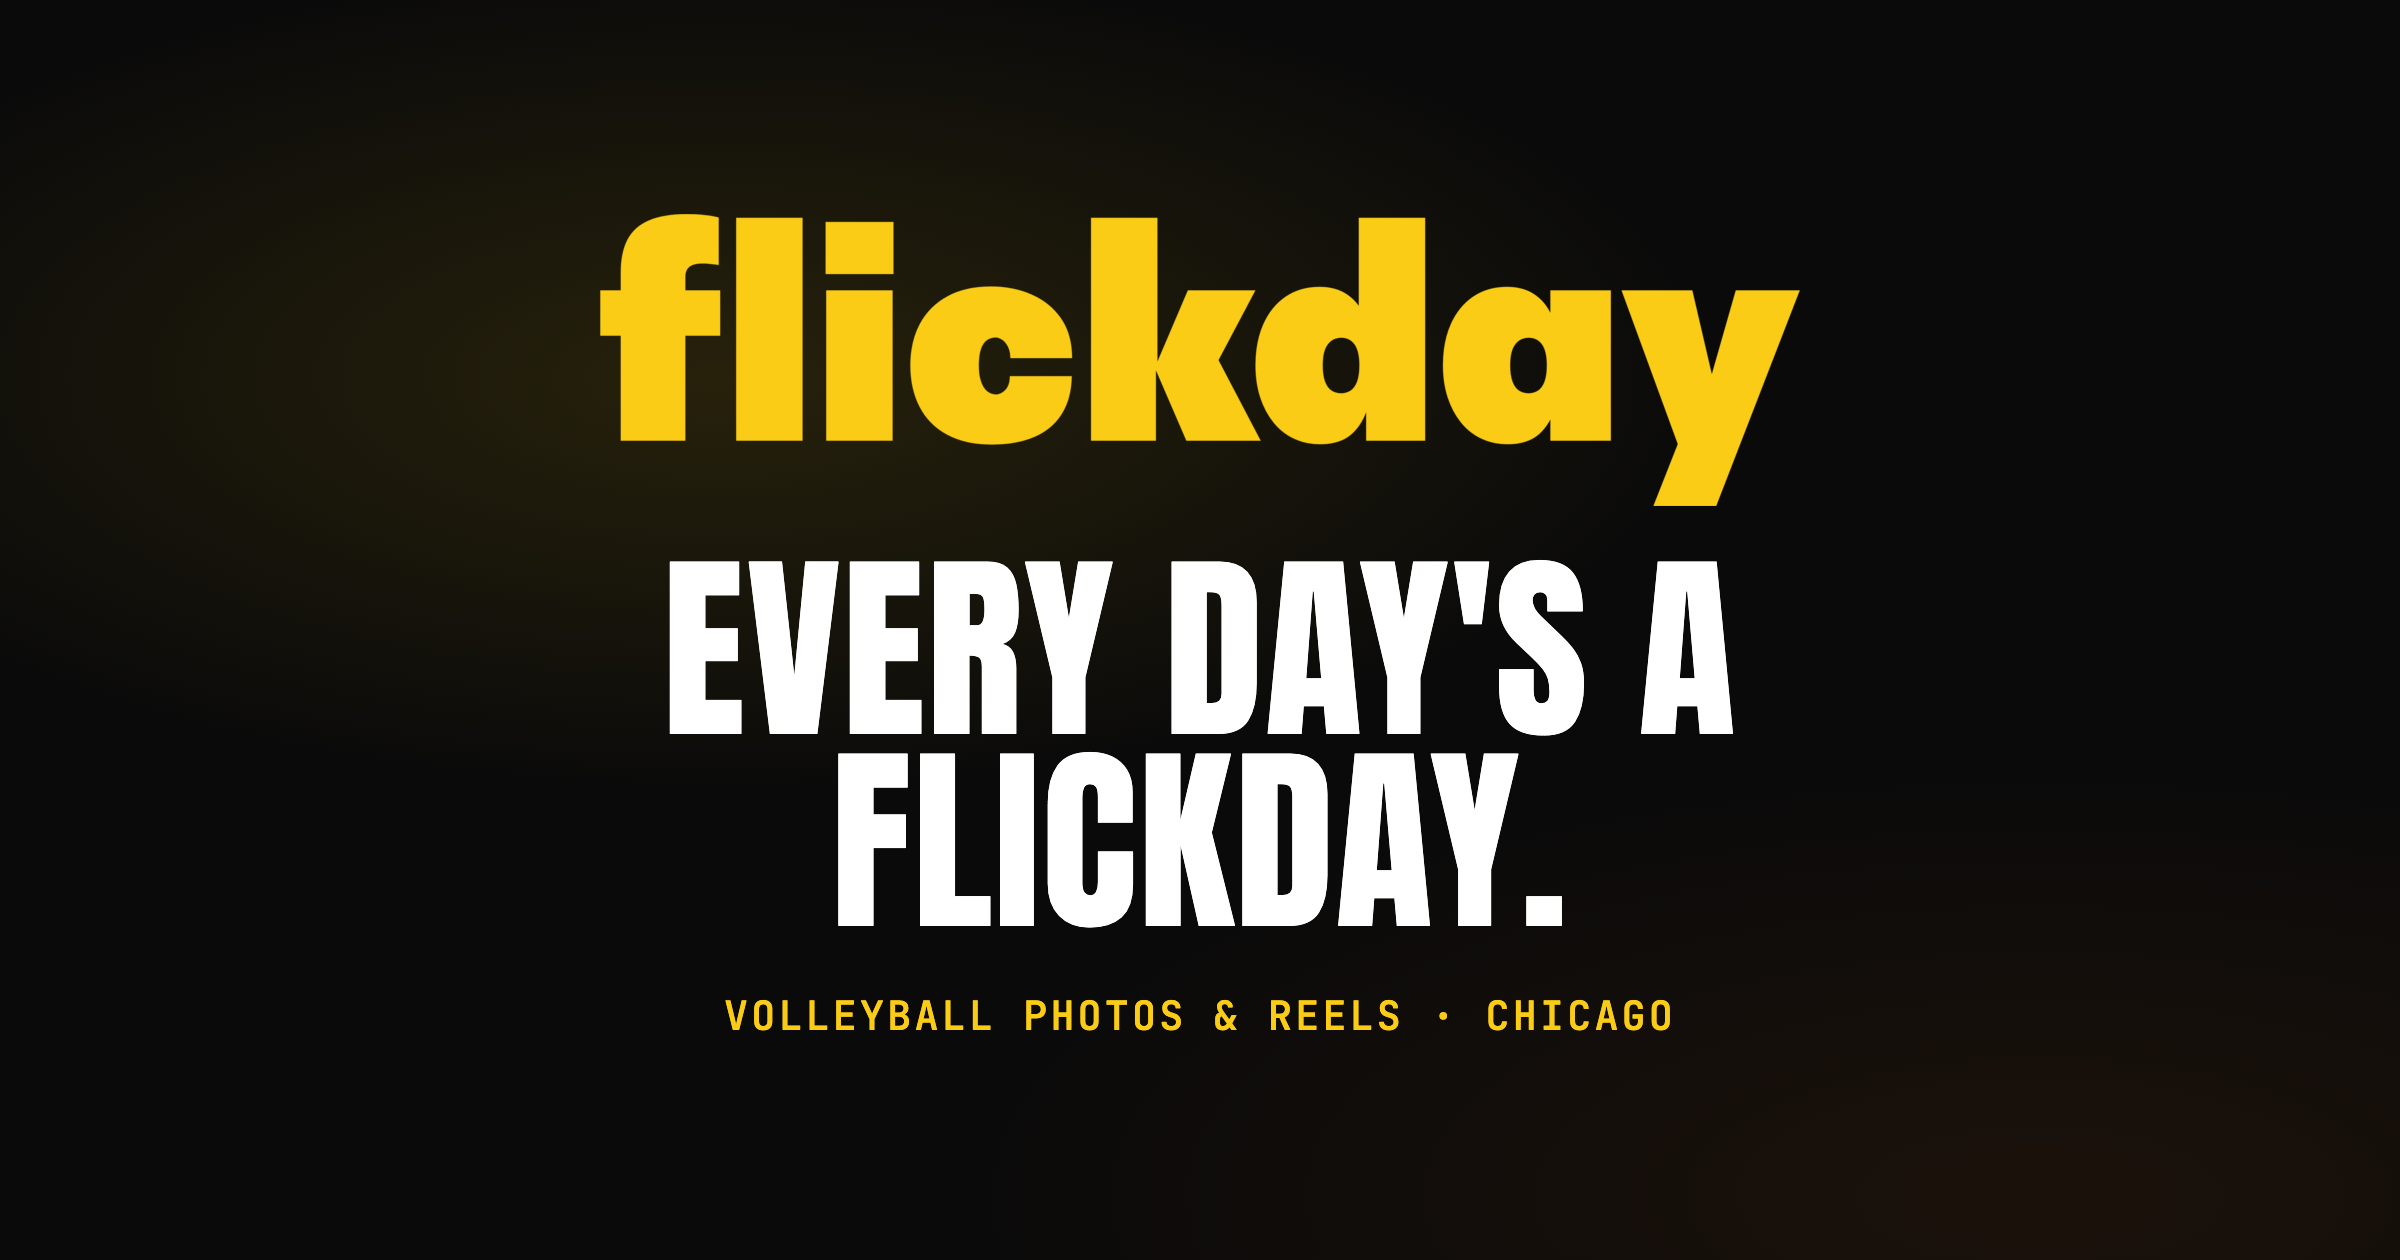
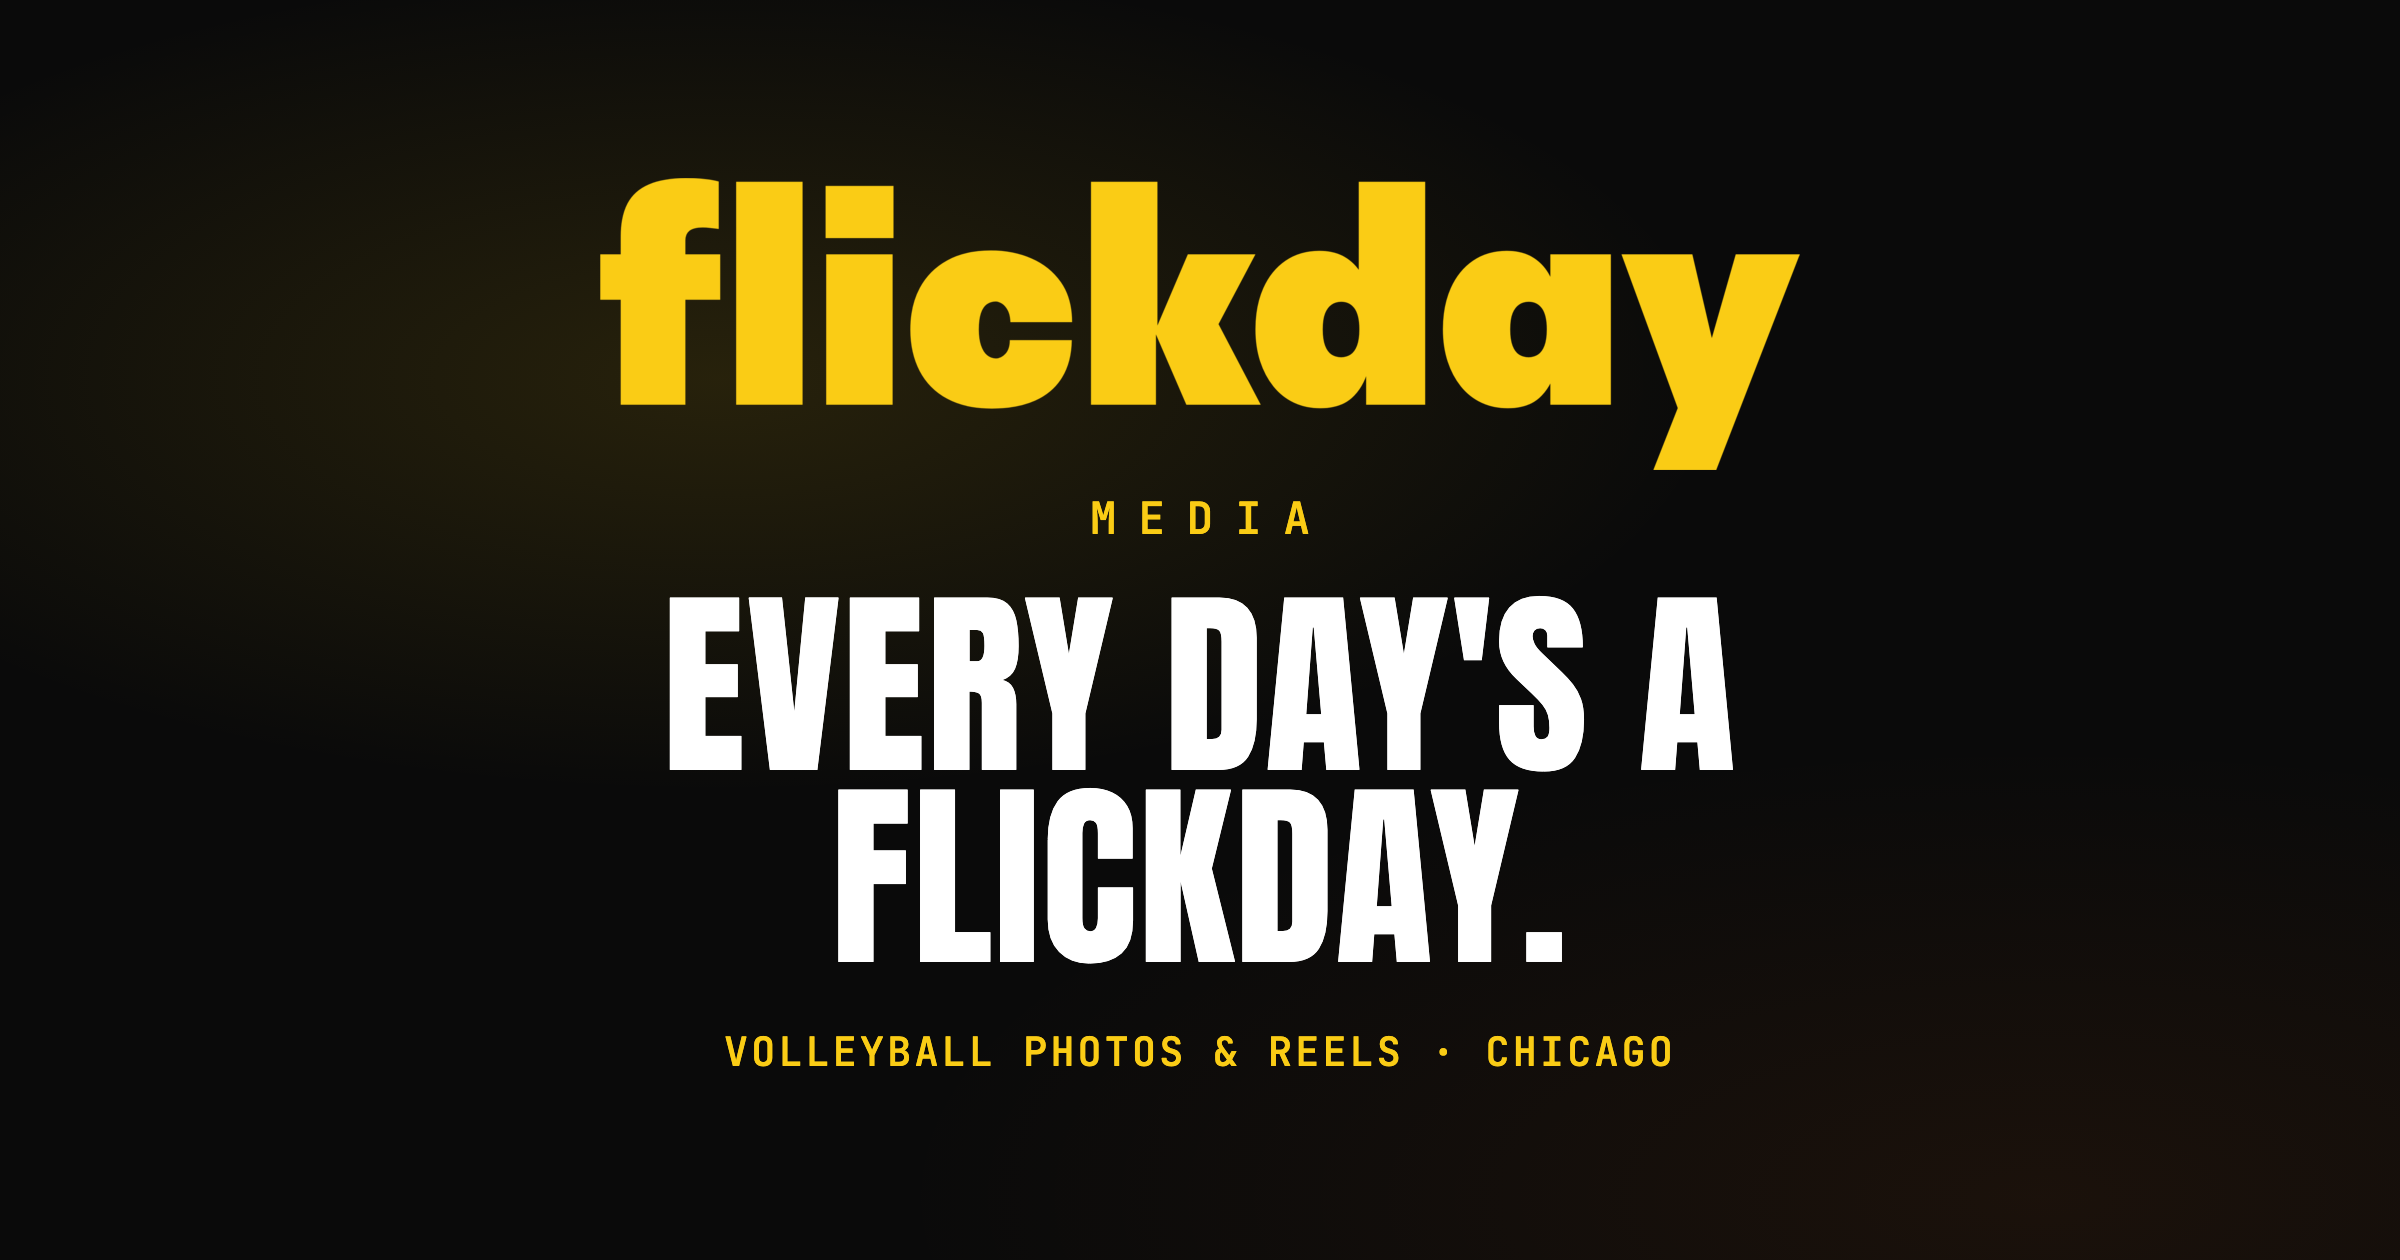
feat(site): MEDIA back on the share card; bump stale wordmark URLs
The card dropped the word "MEDIA" along with its rule lines. Nino meant only
the lines, and gate 3 of the render standard names the business in full:
Flickday Media. The word was the only place on the card that said "Media".

- build-site-wordmark.mjs: a "MEDIA" row under the wordmark, JetBrains Mono
  500 (the hero eyebrow's face), 22 px, spaced 0.5em, yellow, no rules. The
  render is byte-identical to the variant nino picked. og:image ?v=6.
- index.html: wordmark-yellow.png and wordmark-white.png to ?v=3. a36ed9e
  re-rendered both PNGs and kept ?v=2, so edges still serve this morning's
  bytes under ?v=2 (8564 B against the repo's 8395 B, age 8+ hours).
- check-published.mjs:
  - The two wordmark URLs join the exact-URL list, so a re-render without a
    ?v bump now fails the check instead of passing on stale bytes.
  - History is no longer capped at ten versions. An edge served index.html
    as of the 11th-newest commit (0c27a26) for the bare wordmark-white.png
    path, and the ten-version window failed it as unrecognized instead of
    naming it a stale fallback.

Changed region(s): [[0.2812, 0.4024, 0.7188, 0.8667], [0.25, 0.1238, 0.75, 0.4024], [0.5625, 0.1238, 0.5938, 0.1857]]

diff --git a/site/index.html b/site/index.html
@@ -14,7 +14,7 @@
   <meta property="og:description" content="Volleyball tournament photos and reels. Based in Chicago, happy to travel. Galleries within 24–48 hours.">
   <meta property="og:type" content="website">
   <meta property="og:url" content="https://flickdaymedia.com">
-  <meta property="og:image" content="https://flickdaymedia.com/flickday-assets/site/og-share-card.png?v=5">
+  <meta property="og:image" content="https://flickdaymedia.com/flickday-assets/site/og-share-card.png?v=6">
   <meta property="og:image:width" content="1200">
   <meta property="og:image:height" content="630">
   <meta name="twitter:card" content="summary_large_image">
@@ -756,7 +756,7 @@ h1, h2, .btn, .find-label, .contact a, .footer-links a, .footer-text { overflow-
 
 <section class="hero" id="top" aria-labelledby="hero-title">
   <header class="hero-header">
-    <a class="brand-link" href="#top"><img src="flickday-assets/site/wordmark-yellow.png?v=2" alt="Flickday Media" width="640" height="156"></a>
+    <a class="brand-link" href="#top"><img src="flickday-assets/site/wordmark-yellow.png?v=3" alt="Flickday Media" width="640" height="156"></a>
     <a class="header-link" href="https://www.instagram.com/flickday.media">Instagram</a>
   </header>
   <img class="hero-photo" src="images/hero/hero-1600.webp" srcset="images/hero/hero-800.webp 800w, images/hero/hero-1600.webp 1600w" sizes="100vw" width="1600" height="2401" fetchpriority="high" decoding="async" alt="Photo from a beach volleyball tournament: a player sprays champagne.">
@@ -872,7 +872,7 @@ h1, h2, .btn, .find-label, .contact a, .footer-links a, .footer-text { overflow-
 </main>
 
 <footer class="site-footer">
-  <img src="flickday-assets/site/wordmark-white.png?v=2" alt="Flickday Media" width="640" height="156">
+  <img src="flickday-assets/site/wordmark-white.png?v=3" alt="Flickday Media" width="640" height="156">
   <p class="footer-text">Flickday Media · Chicago</p>
   <ul class="footer-links">
     <li><a href="https://www.instagram.com/flickday.media">Instagram</a></li>
